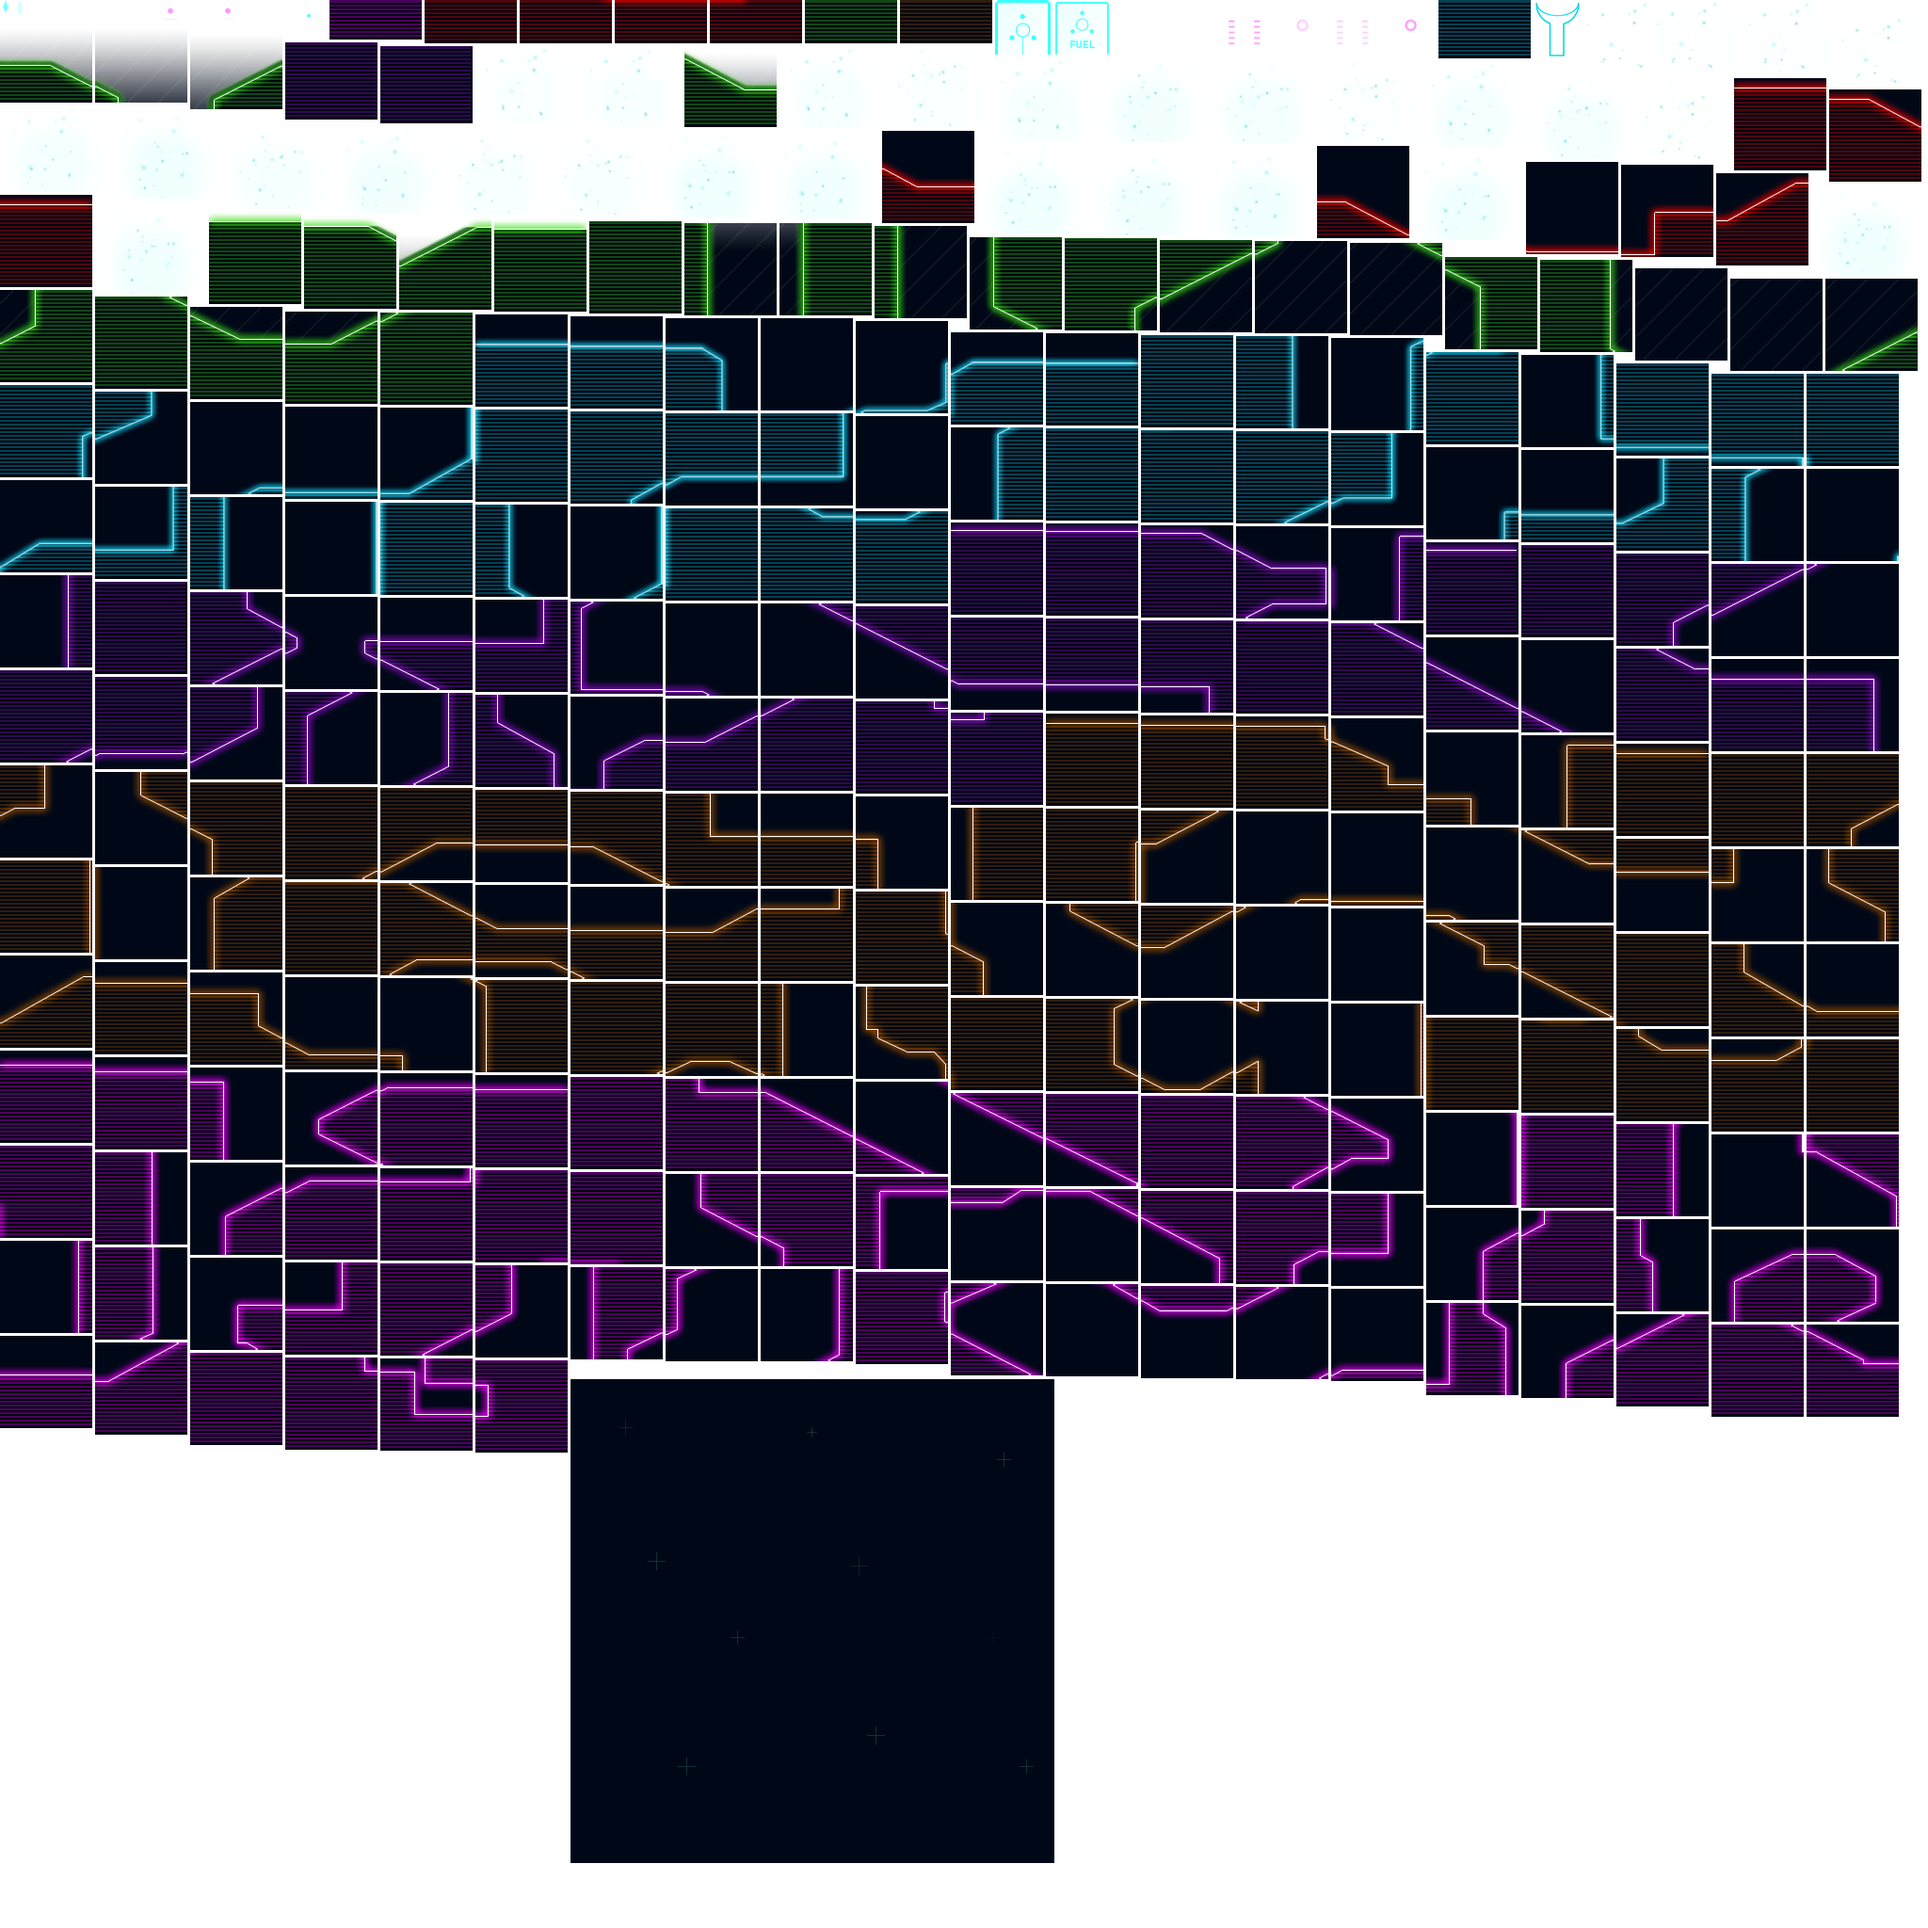
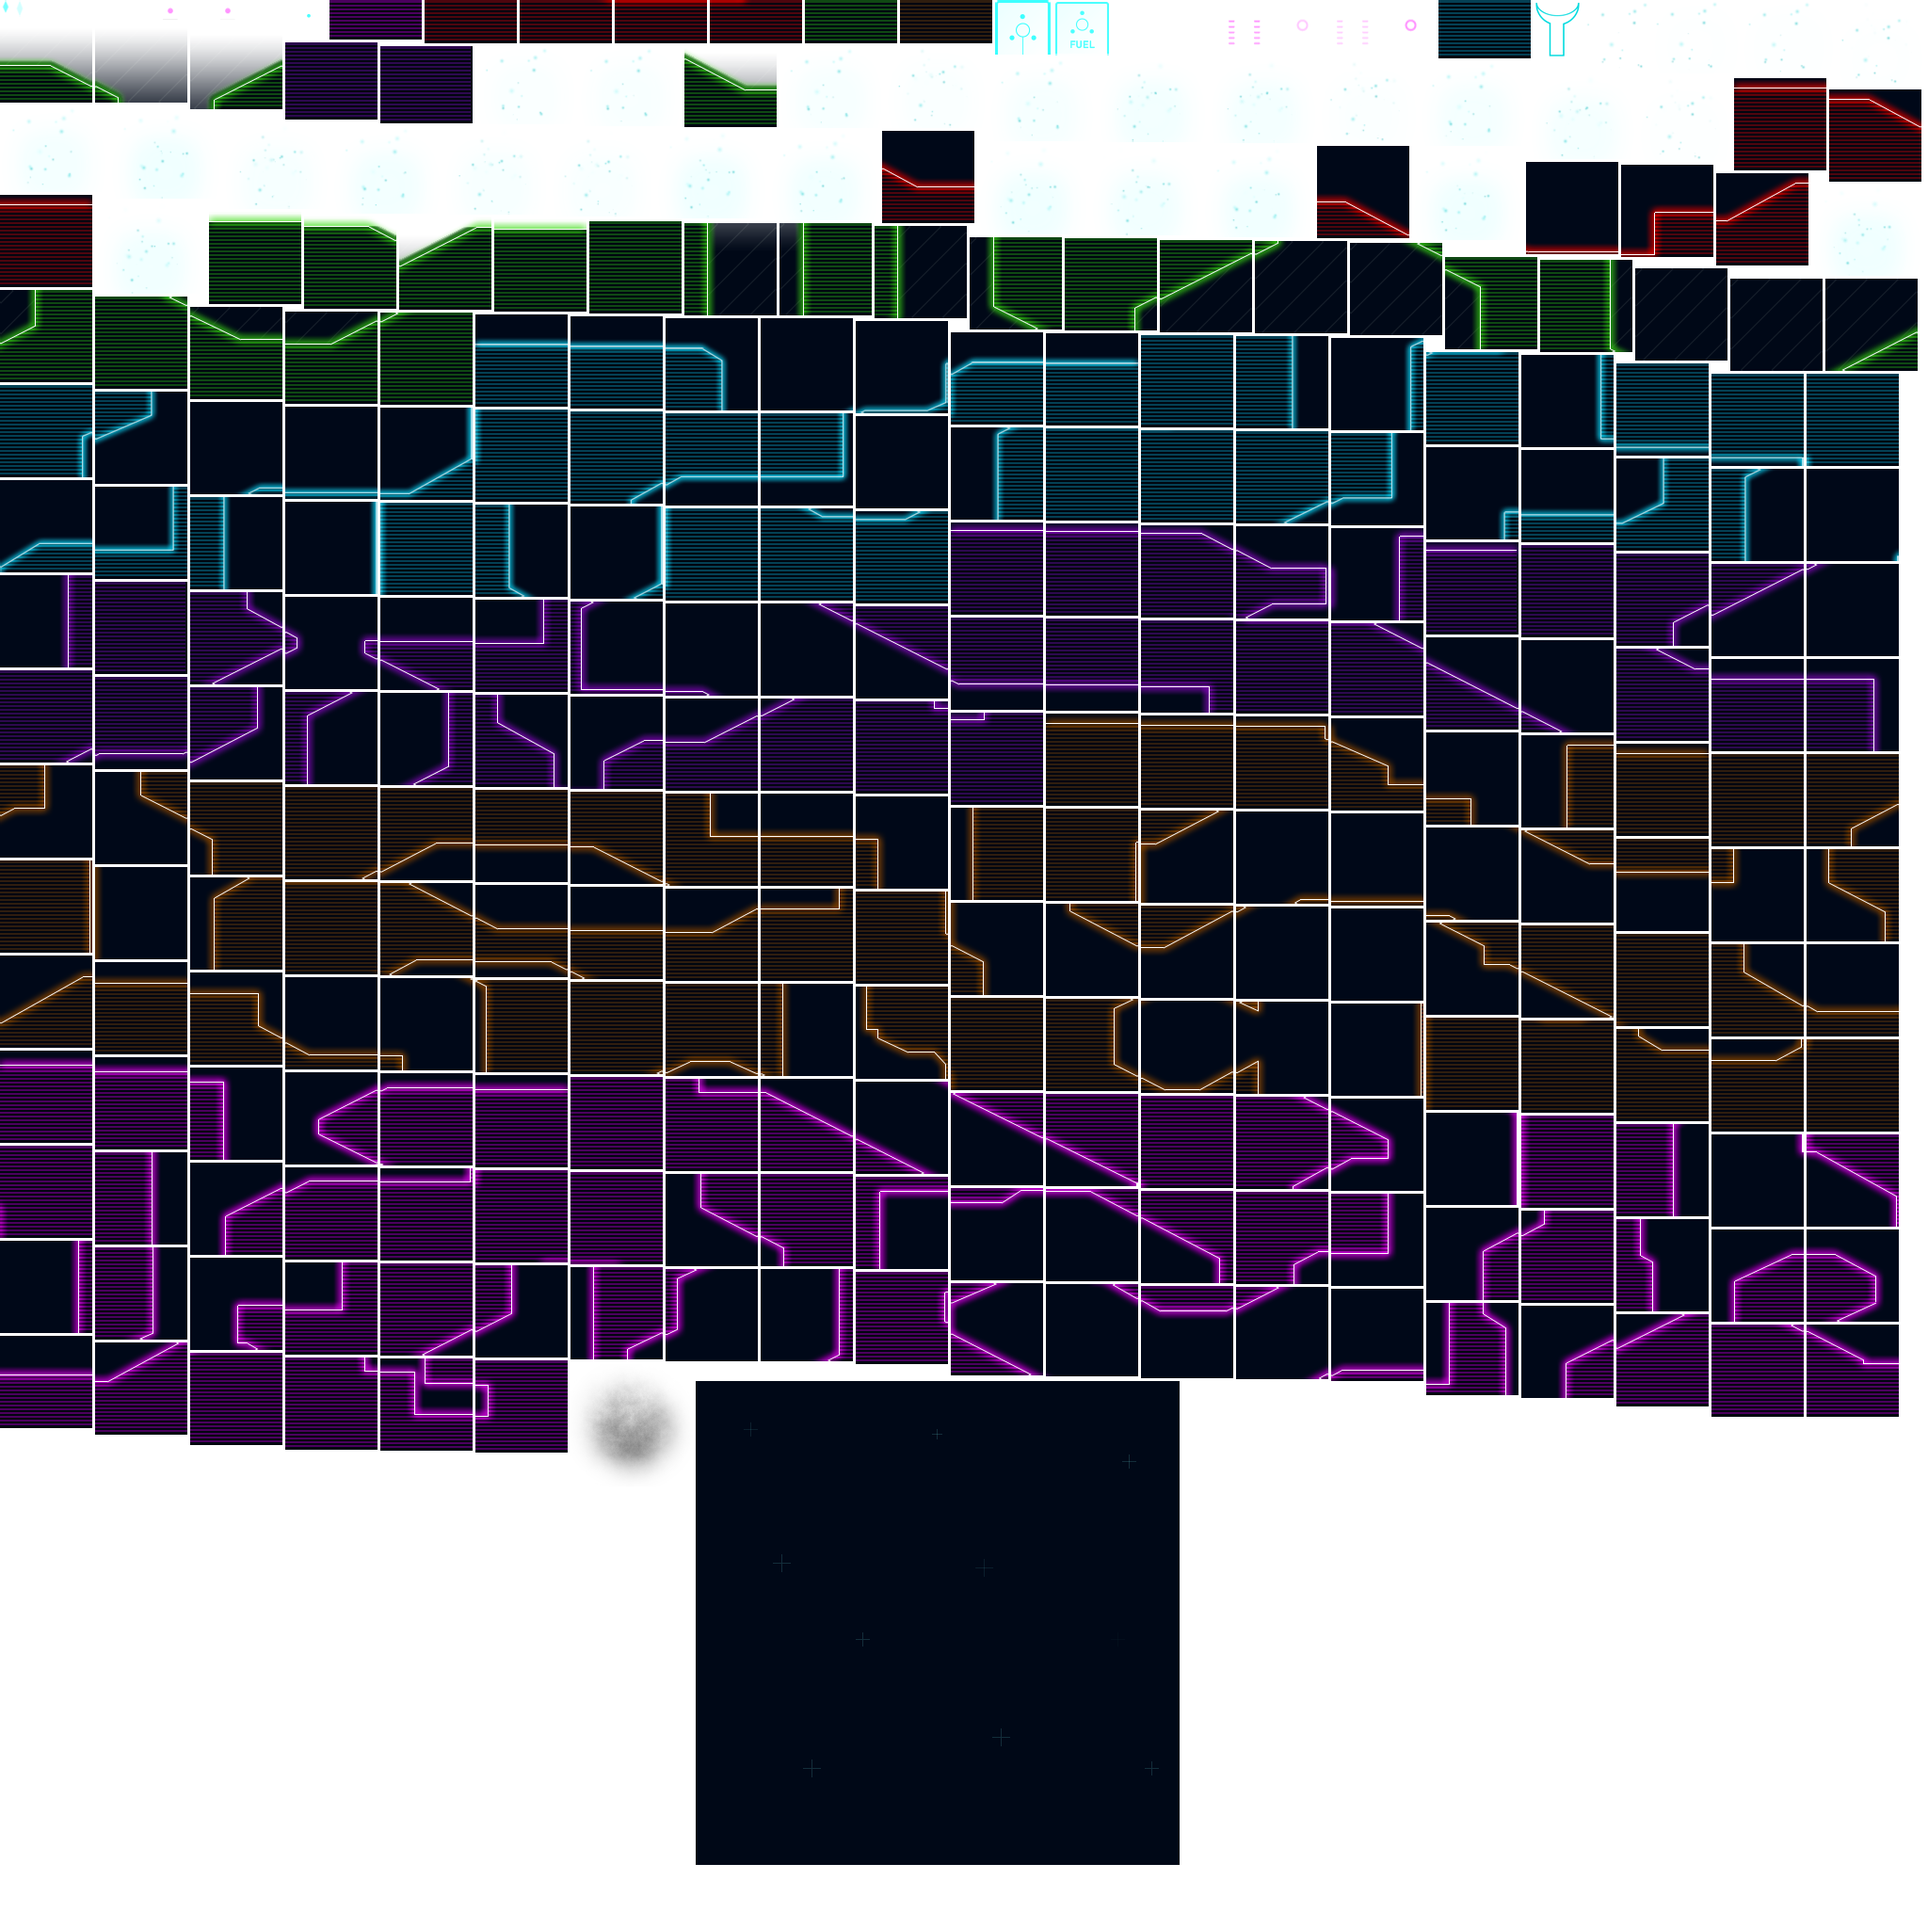
new power particles

Changed region(s): [[0.2812, 0.6875, 0.375, 0.9688], [0.5312, 0.7188, 0.625, 0.9688]]

diff --git a/src/app/environment/particles/manager.js b/src/app/environment/particles/manager.js
@@ -23,9 +23,15 @@ module.exports = {
   emitter: null,
 
   /**
+   * @property powerEmitter
+   * @type {Phaser.ParticleStorm.Emitter}
+   */
+  powerEmitter: null,
+
+  /**
    * @method init
    */
-  init: function() {
+  init: function () {
     this.manager = game.plugins.add(Phaser.ParticleStorm);
   },
 
@@ -35,32 +41,35 @@ module.exports = {
    *
    * @method create
    */
-  create: function() {
+  create: function () {
+
     this.group = game.add.group();
     this.group.fixedToCamera = false;
+
+    //var smoke = game.make.image(0,0,'combined', 'smoke-particle.png');
 
     var explodeParticle = game.make.bitmapData(2, 2);
     explodeParticle.ctx.fillStyle = '#ffffff';
     explodeParticle.ctx.beginPath();
-    explodeParticle.ctx.fillRect(0,0,2,2);
+    explodeParticle.ctx.fillRect(0, 0, 2, 2);
     explodeParticle.ctx.closePath();
 
     var transporterParticle = game.make.bitmapData(2, 2);
     transporterParticle.ctx.fillStyle = '#f0ff00';
     transporterParticle.ctx.beginPath();
-    transporterParticle.ctx.fillRect(0,0,2,2);
+    transporterParticle.ctx.fillRect(0, 0, 2, 2);
     transporterParticle.ctx.closePath();
 
     var transporterOrbParticle = game.make.bitmapData(2, 2);
     transporterOrbParticle.ctx.fillStyle = '#42ff00';
     transporterOrbParticle.ctx.beginPath();
-    transporterOrbParticle.ctx.fillRect(0,0,2,2);
+    transporterOrbParticle.ctx.fillRect(0, 0, 2, 2);
     transporterOrbParticle.ctx.closePath();
 
     var fuelParticle = game.make.bitmapData(2, 2);
     //fuelParticle.circle(0, 0, 1, 'rgb(255,255,255)');
     fuelParticle.ctx.fillStyle = '#3CFFFF';
-    fuelParticle.ctx.fillRect(0,0,2,2);
+    fuelParticle.ctx.fillRect(0, 0, 2, 2);
 
     game.cache.addBitmapData('transportParticle', transporterParticle);
     game.cache.addBitmapData('transportOrbParticle', transporterOrbParticle);
@@ -75,44 +84,58 @@ module.exports = {
     var teleportEmitterDataOrb = {
       lifespan: 400,
       image: game.cache.getBitmapData('fuelParticle'),
-      hsv: { initial: 0, value: 359, control: 'linear' }
+      hsv: {initial: 0, value: 359, control: 'linear'}
     };
 
     var fuelEmitterData = {
       lifespan: 850,
       image: game.cache.getBitmapData('fuelParticle'),
-      vy: { min: 0, max: 0 },
+      vy: {min: 0, max: 0},
       alpha: {
         initial: 0,
         value: 1,
         control: [
-          { x: 0, y: 1 },
-          { x: 1, y: 0 }
+          {x: 0, y: 1},
+          {x: 1, y: 0}
         ]
       }
     };
 
-    var fuelExplodeEmitter = {
-      lifespan: { min: 500, max: 1250 },
-      image: game.cache.getBitmapData('fuelParticle'),
-      scale: { min: 0.25, max: 2 },
-      rotation: { delta: 4 },
-      velocity: { radial: { arcStart: -15, arcEnd: 15 }, initial: { min: 1, max: 3 } }
+    var smokeData = {
+      lifespan: {min: 1000, max: 2000},
+      hsv: 299,
+      image: 'combined',
+      frame: 'smoke-particle.png',
+      vx: {min: -0.1, max: 0.1},
+      vy: -1,
+      scale: {min: 0.01, max: 0.1},
+      alpha: {value: 0, delta: 0.005}
     };
-    
+
+    var fuelExplodeEmitter = {
+      lifespan: {min: 500, max: 1250},
+      image: game.cache.getBitmapData('fuelParticle'),
+      scale: {min: 0.25, max: 1.5},
+      rotation: {delta: 4},
+      velocity: {radial: {arcStart: -15, arcEnd: 15}, initial: {min: 1, max: 3}}
+    };
+
     var explodeEmitterData = {
-      lifespan: { min: 500, max: 1000 },
+      lifespan: {min: 500, max: 1000},
       image: game.cache.getBitmapData('explodeParticle'),
-      scale: { min: 0.5, max: 2 },
-      rotation: { delta: 3 },
-      velocity: { radial: { arcStart: -30, arcEnd: 20 }, initial: { min: 3, max: 6 } }
-    }; 
+      scale: {min: 0.5, max: 2},
+      rotation: {delta: 3},
+      velocity: {radial: {arcStart: -30, arcEnd: 20}, initial: {min: 3, max: 6}}
+    };
 
     this.manager.addData('explode', explodeEmitterData);
     this.manager.addData('fuelEmitter', fuelEmitterData);
     this.manager.addData('transporter', teleportEmitterData);
     this.manager.addData('fuelExplode', fuelExplodeEmitter);
+    this.manager.addData('smoke', smokeData);
 
+    this.powerEmitter = this.manager.createEmitter();
+    this.powerEmitter.addToWorld(this.group);
 
     this.emitter = this.manager.createEmitter();
     this.emitter.addToWorld(this.group);
@@ -124,7 +147,7 @@ module.exports = {
    * @param y
    * @param boundCallback {Function}
    */
-  playerTeleport: function(x, y, boundCallback) {
+  playerTeleport: function (x, y, boundCallback) {
     var circle = this.manager.createCircleZone(25);
     this.emitter.force.y = 0;
     this.emitter.emit('transporter', x, y, {
@@ -138,24 +161,35 @@ module.exports = {
     }
   },
 
-  orbTeleport: function(x, y) {
+  orbTeleport: function (x, y) {
     var circle = this.manager.createCircleZone(25);
     this.emitter.force.y = 0;
     this.emitter.emit('transporter', x, y, {
       zone: circle,
       total: 20,
       repeat: 10,
-      frequency: 100});
+      frequency: 100
+    });
   },
 
-  explode: function(x, y) {
+  explode: function (x, y) {
     this.emitter.force.y = 0.1;
-    this.emitter.emit('explode', x, y, { total: 20 });
+    this.emitter.emit('explode', x, y, {total: 20});
   },
 
-  fuelExplode: function(x, y) {
-    this.emitter.force.y = -0.01;
-    this.emitter.emit('fuelExplode', x, y, { total: 80 });
+  fuelExplode: function (x, y) {
+    this.emitter.force.y = -0.005;
+    this.emitter.emit('fuelExplode', x, y, {total: 80});
+  },
+
+  emitPower: function (x, y) {
+    this.powerEmitter.force.y = -0.0001;
+    this.powerEmitter.emit('smoke', x, y, {repeat: -1, frequency: 50});
+    this.powerEmitter.timer.resume();
+  },
+
+  stopPower: function() {
+    this.powerEmitter.timer.pause();
   }
 
 };

diff --git a/src/app/actors/PowerStation.js b/src/app/actors/PowerStation.js
@@ -58,7 +58,7 @@ p.init = function() {
     'power-station-damaged.png'
   ], 1, true);
   this.play('normal');
-  this.createParticles();
+  this.startParticles();
 };
 
 /**
@@ -87,12 +87,15 @@ p.update = function() {
     if (this.isNormal) {
       this.isNormal = false;
       this.play('damaged');
+      this.stopParticles();
     }
     this.health+=0.5;
   } else if (this.health >= gameState.POWER_STATION_HEALTH) {
     if (!this.isNormal) {
       this.isNormal = true;
       this.play('normal');
+      this.startParticles()
+      ;
     }
   }
 };
@@ -105,11 +108,12 @@ p.hit = function() {
   sound.playSound('hurt2');
 };
 
-/**
- * @method createParticles
- */
-p.createParticles = function() {
+p.stopParticles = function() {
+  particleManager.stopPower();
+};
 
+p.startParticles = function() {
+  particleManager.emitPower(this.x - this.width/3.5, this.y);
 };
 
 /**
